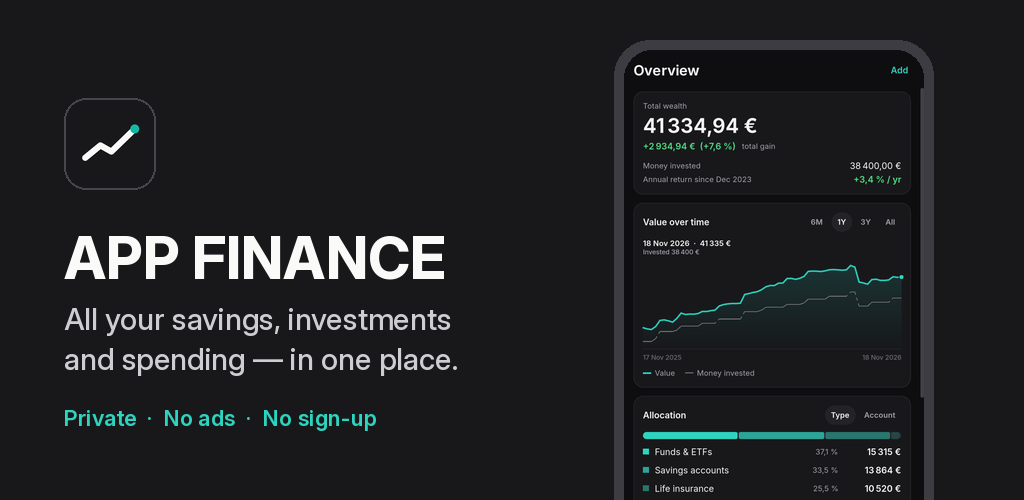
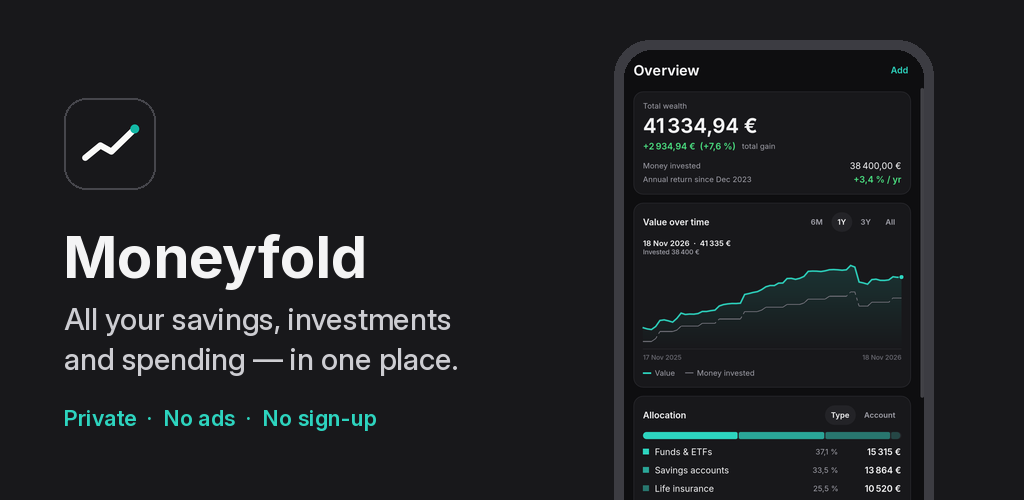
Rename app to Moneyfold (store name, app name, website pages, feature graphic) (#6)
Package name and backup file format unchanged; old backups still import.

Claude-Session: https://claude.ai/code/session_01TEkMTySytWY5gGHEwgcRTg

Changed region(s): [[0.0625, 0.45, 0.4375, 0.6]]

diff --git a/docs/site/privacy.html b/docs/site/privacy.html
@@ -3,7 +3,7 @@
 <head>
 <meta charset="utf-8">
 <meta name="viewport" content="width=device-width, initial-scale=1">
-<title>APP FINANCE — Privacy policy</title>
+<title>Moneyfold — Privacy policy</title>
 <style>
   body { font-family: Inter, system-ui, -apple-system, Segoe UI, Roboto, sans-serif; color: #18181B; background: #F7F7F5; margin: 0; }
   main { max-width: 680px; margin: 0 auto; padding: 40px 20px 64px; line-height: 1.6; }
@@ -17,10 +17,10 @@
 <body>
 <main>
   <h1>Privacy policy</h1>
-  <p class="muted">APP FINANCE · Last updated 19 November 2026 (v0.3)</p>
+  <p class="muted">Moneyfold · Last updated 24 November 2026</p>
 
   <h2>In short</h2>
-  <p>APP FINANCE does not collect, store or share your personal or financial data. Everything you enter stays on your device.</p>
+  <p>Moneyfold does not collect, store or share your personal or financial data. Everything you enter stays on your device.</p>
 
   <h2>Data you enter</h2>
   <p>Accounts, holdings, amounts, dates, income and notes are saved only on your device (in the app's private storage on Android, or in your browser's storage on the website). We have no server and no user accounts, so we cannot see, access or recover this data.</p>
@@ -49,7 +49,7 @@
   <p>Use Settings › Delete all my data, uninstall the app, or clear the website's data in your browser.</p>
 
   <h2>Not financial advice</h2>
-  <p>APP FINANCE shows and organises information you enter. It does not provide investment advice and never moves money.</p>
+  <p>Moneyfold shows and organises information you enter. It does not provide investment advice and never moves money.</p>
 
   <h2>Contact</h2>
   <p>Questions: open an issue at <a href="https://github.com/clixiogames/app-finance/issues">github.com/clixiogames/app-finance</a>.</p>

diff --git a/docs/site/terms.html b/docs/site/terms.html
@@ -3,7 +3,7 @@
 <head>
 <meta charset="utf-8">
 <meta name="viewport" content="width=device-width, initial-scale=1">
-<title>APP FINANCE — Terms of use</title>
+<title>Moneyfold — Terms of use</title>
 <style>
   body { font-family: Inter, system-ui, -apple-system, Segoe UI, Roboto, sans-serif; color: #18181B; background: #F7F7F5; margin: 0; }
   main { max-width: 680px; margin: 0 auto; padding: 40px 20px 64px; line-height: 1.6; }
@@ -23,10 +23,10 @@
 <body>
 <main>
   <h1>Terms of use</h1>
-  <p class="muted">APP FINANCE · Last updated 23 November 2026</p>
+  <p class="muted">Moneyfold · Last updated 23 November 2026</p>
 
   <h2>In short</h2>
-  <p>APP FINANCE is a free tool to record and organise your own savings, investments and spending. By using the app or the website you agree to these terms.</p>
+  <p>Moneyfold is a free tool to record and organise your own savings, investments and spending. By using the app or the website you agree to these terms.</p>
 
   <h2>What the app does — and does not do</h2>
   <ul>

diff --git a/README.md b/README.md
@@ -1,4 +1,4 @@
-# APP FINANCE
+# Moneyfold
 
 All your savings and investments in one place — an Android app (Google Play) and an identical website.
 Built with **Godot 4.7.2**. Data stays on the device; no accounts, no servers, €0 to run.
